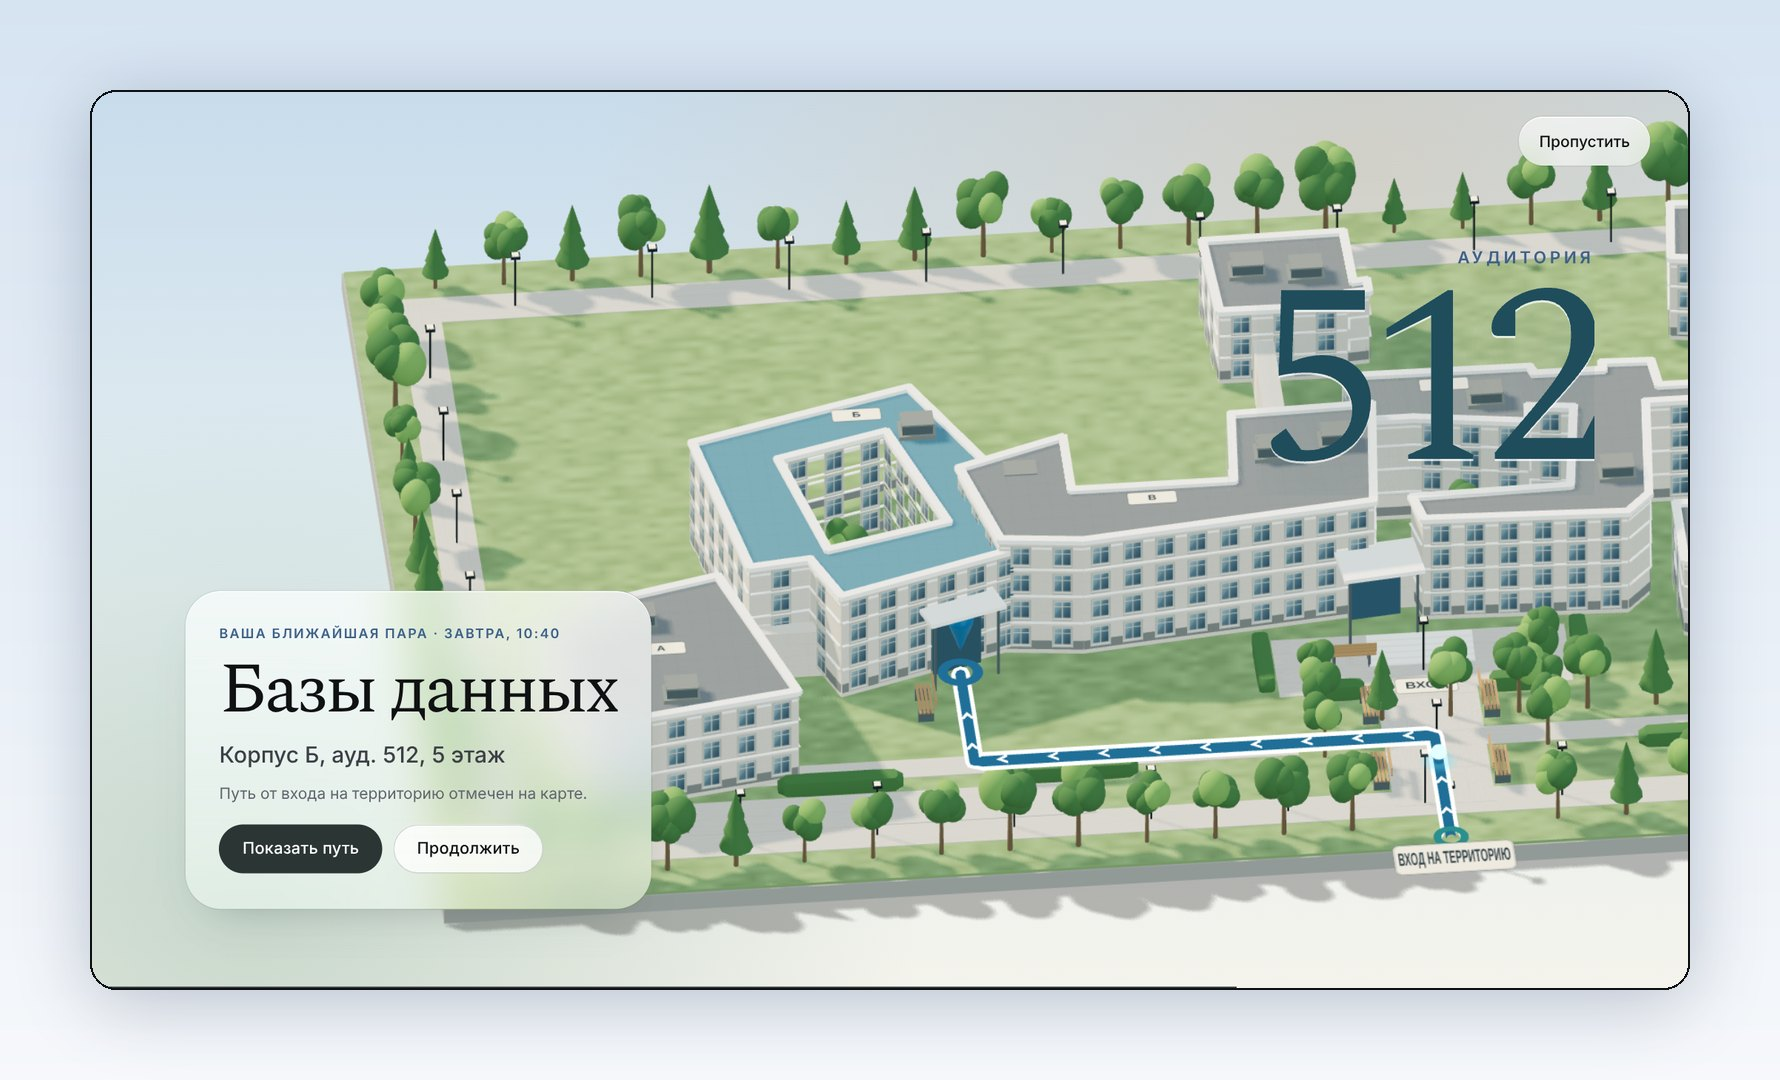
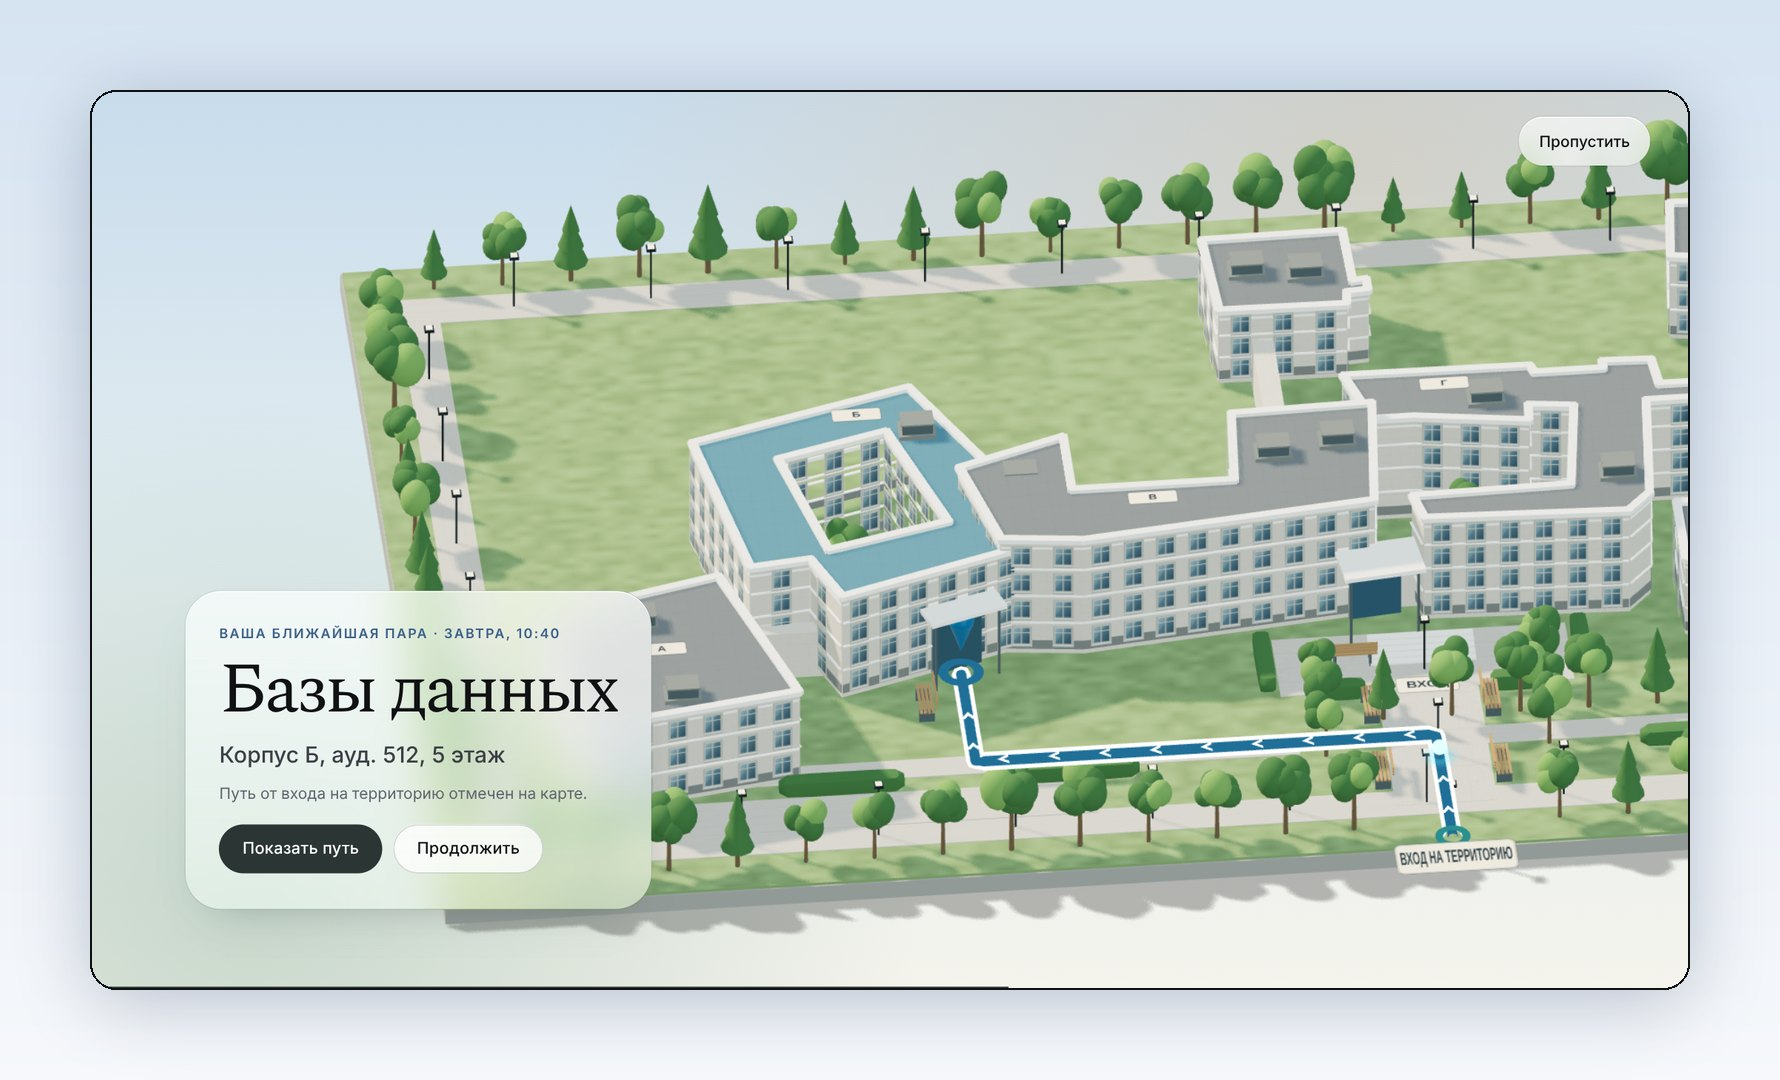
Вступление: убран крупный номер аудитории, кабинет остаётся в плашке
Claude-Session: https://claude.ai/code/session_01WXnceTRAi8bW5CZN4AeUqz

diff --git a/public/js/intro.js b/public/js/intro.js
@@ -1,5 +1,5 @@
-// Вступление после входа: корпус издалека «подлетает» с разворотом, на карте загорается путь, а справа
-// крупно появляется номер кабинета ближайшей пары. Показывается раз за вход; Esc, клик или «Пропустить» закрывают.
+// Вступление после входа: корпус издалека «подлетает» с разворотом, на карте загорается путь, а в плашке
+// появляется кабинет ближайшей пары. Показывается раз за вход; Esc, клик или «Пропустить» закрывают.
 import {S} from './state.js';
 import {esc, mskNow, relativeDay, cap} from './util.js';
 import {nextPhysicalLesson} from './schedule-navigation.js';
@@ -25,7 +25,7 @@ export function maybeShowIntro() {
   if (!entry?.lesson.building || !territoryRoute(entry.lesson.building)) return;
   try { sessionStorage.setItem(KEY, '1'); } catch { /* не страшно */ }
 
-  const l = entry.lesson, place = String(l.place || ''), room = (place.match(/ауд\.\s*([^\s,]+)/) || [])[1] || '';
+  const l = entry.lesson, place = String(l.place || '');
   const when = `${cap(relativeDay(entry.date, mskNow().date))}, ${l.start}`;
   const evening = flag('campusSceneMode') === 'evening' || (() => { try { return localStorage.getItem('campusSceneMode') === 'evening'; } catch { return false; } })();
   const mine = S.data.role === 'teacher' ? 'Ваше ближайшее занятие' : 'Ваша ближайшая пара';
@@ -36,7 +36,6 @@ export function maybeShowIntro() {
   overlay.innerHTML = `<div class="intro-sky"></div>
     <div class="model-view intro-view" data-scene="territory" data-route-building="${esc(l.building)}" data-intro="1"><div class="scene-status" data-scene-status role="status"></div></div>
     <button class="intro-skip" type="button" data-intro-close>Пропустить</button>
-    ${room ? `<div class="intro-room" aria-hidden="true"><div class="intro-mask"><span>аудитория</span></div><div class="intro-mask"><b>${esc(room)}</b></div></div>` : ''}
     <div class="intro-copy">
       <div class="intro-mask"><p class="intro-kicker">${mine} · ${esc(when)}</p></div>
       <div class="intro-mask"><h2 class="intro-title" id="intro-title">${esc(l.title)}</h2></div>
@@ -72,9 +71,8 @@ function whenReady(host, run) {
 function startTimeline() {
   if (!overlay) return;
   const rise = (el, delay, dur = 900) => anims.push(el.animate([{transform: 'translateY(115%)'}, {transform: 'translateY(0)'}], {duration: dur, delay, easing: EASE, fill: 'backwards'}));
-  // Сначала корпус подлетает (≈ 4 с), затем текст и номер кабинета поднимаются из масок.
+  // Сначала корпус подлетает (≈ 4 с), затем подпись с кабинетом поднимается из масок.
   overlay.querySelectorAll('.intro-copy .intro-mask > *').forEach((el, i) => rise(el, 2200 + i * 110));
-  overlay.querySelectorAll('.intro-room .intro-mask > *').forEach((el, i) => rise(el, 3000 + i * 160, 1100));
   setTimeout(() => overlay?.classList.add('is-live'), 2100);
   const bar = overlay.querySelector('.intro-progress');
   anims.push(bar.animate([{transform: 'scaleX(0)'}, {transform: 'scaleX(1)'}], {duration: 9000, delay: 600, easing: 'linear', fill: 'both'}));

diff --git a/public/css/home.css b/public/css/home.css
@@ -182,21 +182,14 @@ a.hm-card{text-decoration:none}
 .intro-hint{font-size:14px;color:var(--muted)}
 .intro-actions{display:flex;flex-wrap:wrap;gap:10px;padding:4px 0 2px}
 .intro-actions .btn{margin:0}
-.intro-room{position:absolute;z-index:2;right:clamp(20px,6vw,96px);top:clamp(88px,17vh,170px);text-align:right;display:grid;gap:0;pointer-events:none}
-.intro-room span{font:600 clamp(12px,1.2vw,15px)/1.2 var(--font-sans);letter-spacing:.2em;text-transform:uppercase;color:var(--sky-ink)}
-.intro-room b{display:block;font:400 clamp(96px,16vw,230px)/.88 var(--font-serif);letter-spacing:-.06em;color:#1f4d5c;text-shadow:0 2px 0 rgba(255,255,255,.7),0 30px 60px rgba(31,77,92,.25)}
-.intro.is-evening .intro-room b{color:#f2f5f8;text-shadow:0 30px 60px rgba(0,0,0,.4)}
-.intro.is-evening .intro-room span{color:#b9c7d6}
 .intro.is-evening .intro-copy{background:linear-gradient(180deg,rgba(18,28,40,.72),rgba(22,33,47,.6));color:#f2f5f8}
 .intro.is-evening .intro-where,.intro.is-evening .intro-hint{color:#c9d5e2}
 .intro-progress{position:absolute;z-index:3;left:0;right:0;bottom:0;height:3px;background:var(--pine);transform-origin:left center;transform:scaleX(0)}
 @media (max-width:700px){
   .intro-copy{left:12px;right:12px;bottom:14px;max-width:none}
-  .intro-room{right:18px;top:78px}
-  .intro-room b{font-size:clamp(88px,30vw,150px)}
 }
 
-.intro:not(.is-live) .intro-copy,.intro:not(.is-live) .intro-room{visibility:hidden}
+.intro:not(.is-live) .intro-copy{visibility:hidden}
 .intro.is-evening .intro-kicker{color:#a9cbe6}
 .intro.is-evening .intro-actions .btn:not(.ghost){background:#eef2f6;color:#1d2a38;border-color:#eef2f6}
 .intro.is-evening .intro-actions .btn.ghost{color:#fff;border-color:rgba(255,255,255,.4);background:rgba(255,255,255,.1)}

diff --git a/README.md b/README.md
@@ -29,7 +29,7 @@
 
 ![Вступление после входа](docs/screenshots/student-intro.jpg)
 
-**Главная студента** собрана из витрин, чтобы ничего не пряталось в меню: ближайшая пара с картой маршрута от входа на территорию до корпуса, учебник к этой паре, быстрые действия (библиотека, свободные аудитории, билет, справка, новости, помощник), полка учебников, задания и изменения, билет и баллы по дисциплинам, новости и статьи с обложками, преподаватели. После входа один раз за сессию играет **вступление**: корпус ближайшей пары подлетает с разворотом, загорается путь, а справа крупно появляется номер кабинета (Esc или «Пропустить» закрывают; при «уменьшении движения» и без WebGL вступления нет).
+**Главная студента** собрана из витрин, чтобы ничего не пряталось в меню: ближайшая пара с картой маршрута от входа на территорию до корпуса, учебник к этой паре, быстрые действия (библиотека, свободные аудитории, билет, справка, новости, помощник), полка учебников, задания и изменения, билет и баллы по дисциплинам, новости и статьи с обложками, преподаватели. После входа один раз за сессию играет **вступление**: корпус ближайшей пары подлетает с разворотом, загорается путь, а в плашке появляется кабинет (Esc или «Пропустить» закрывают; при «уменьшении движения» и без WebGL вступления нет).
 
 **Живые детали интерфейса.** Студенческий билет в «Профиле» — объёмная карта: наклоняется за курсором с бликом и переворачивается, на обороте QR для проверки. В «Учёбе» шкалы по дисциплинам с вкладками «Баллы / Посещаемость / До цели» и порогами 60/75/90. В «Заданиях» ближайшие сроки складываются стопкой при прокрутке. Смена дня и вечера на 3D-макетах проезжает шторкой, а для несуществующих адресов есть страница «Такой аудитории нет». Для показа жюри — «Режим презентации» на экране входа и в «Как устроен Кампус»: 7 слайдов, стрелки и Esc.
 

diff --git a/docs/architecture-model.md b/docs/architecture-model.md
@@ -118,4 +118,4 @@ node tests/browser_navigation.cjs
 
 ## Вступление после входа
 
-`intro.js` показывает полноэкранный слой с макетом территории (`data-intro="1"`): в `scene-controls.js` камера стартует издалека и сверху с поворотом на 1,45 оборота и с низкой скоростью сглаживания (≈1,35 1/с) доводится до корпуса маршрута; маршрут и метка входа берутся из `territoryRoute`. Через ~2 с из масок поднимаются подписи и номер аудитории. Условия показа: роль студента или преподавателя, есть ближайшая очная пара, поддерживается WebGL, не включено «уменьшение движения», вступление ещё не играло в этой сессии (`sessionStorage.campusIntro`, сбрасывается при входе и выходе). Для автоматических проверок (`navigator.webdriver`) слой отключён, включить его можно флагом `sessionStorage.campusIntroForce = '1'`.
+`intro.js` показывает полноэкранный слой с макетом территории (`data-intro="1"`): в `scene-controls.js` камера стартует издалека и сверху с поворотом на 1,45 оборота и с низкой скоростью сглаживания (≈1,35 1/с) доводится до корпуса маршрута; маршрут и метка входа берутся из `territoryRoute`. Через ~2 с из масок поднимается плашка с предметом и кабинетом. Условия показа: роль студента или преподавателя, есть ближайшая очная пара, поддерживается WebGL, не включено «уменьшение движения», вступление ещё не играло в этой сессии (`sessionStorage.campusIntro`, сбрасывается при входе и выходе). Для автоматических проверок (`navigator.webdriver`) слой отключён, включить его можно флагом `sessionStorage.campusIntroForce = '1'`.
